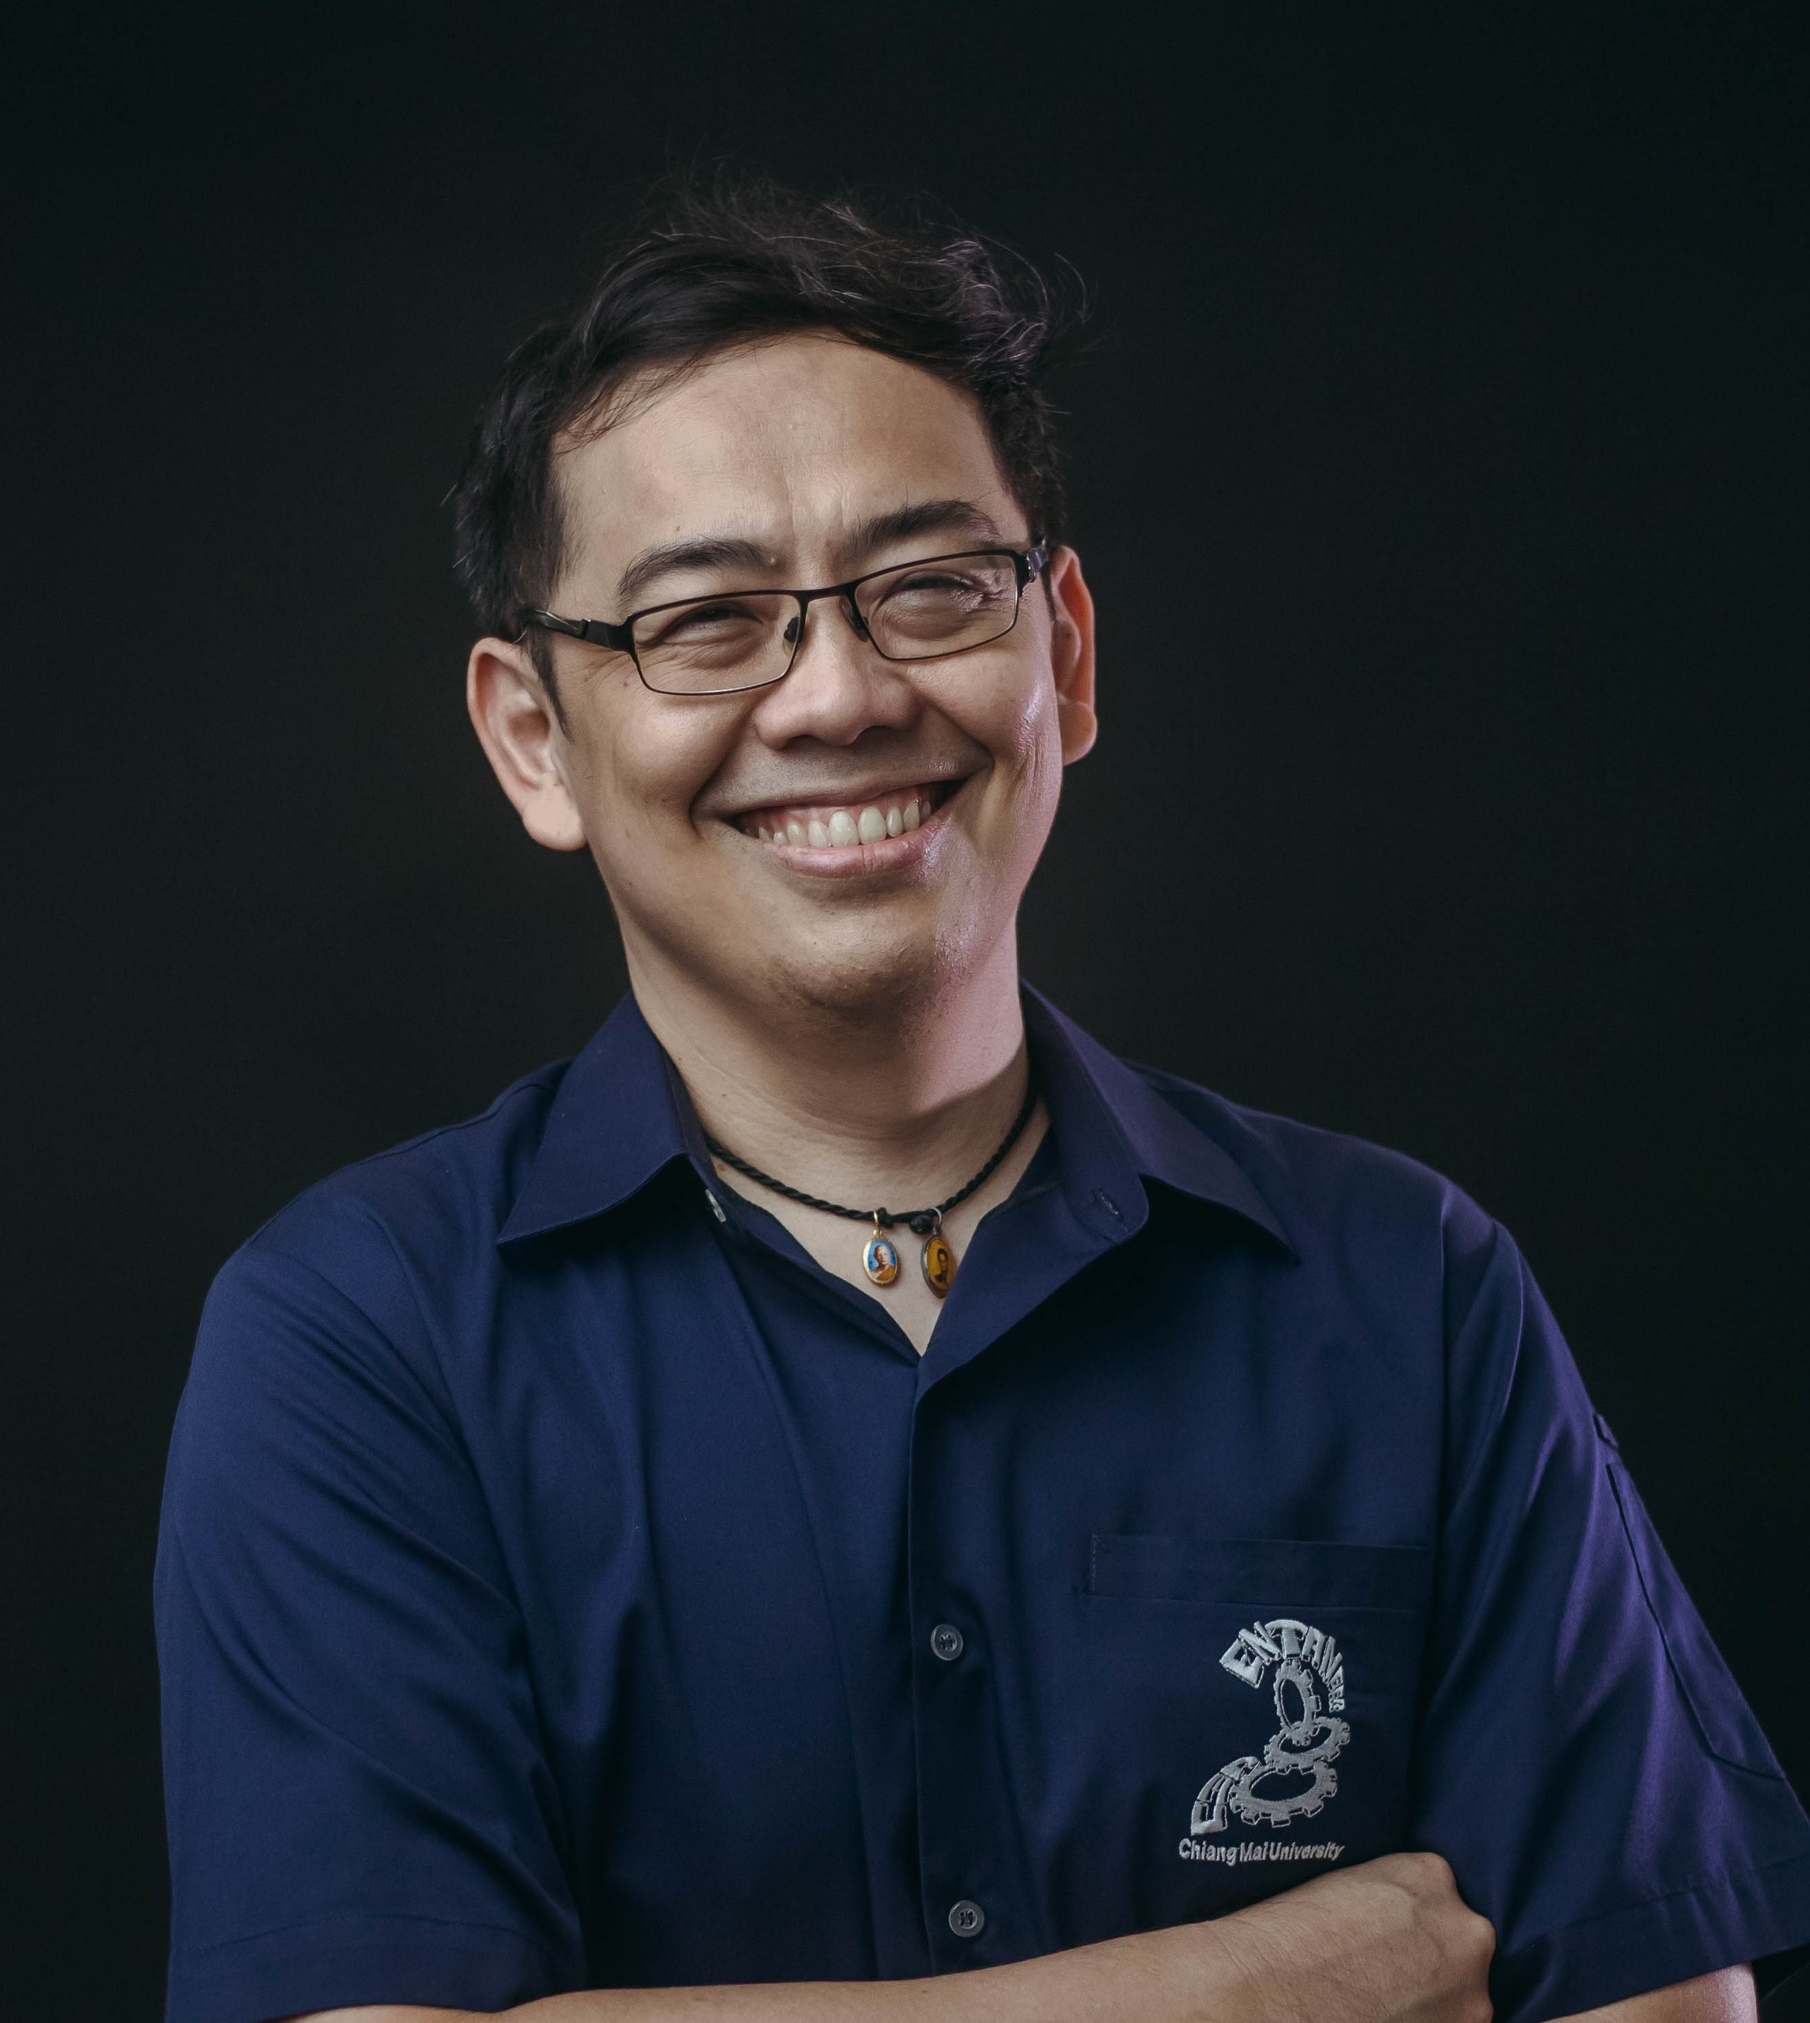
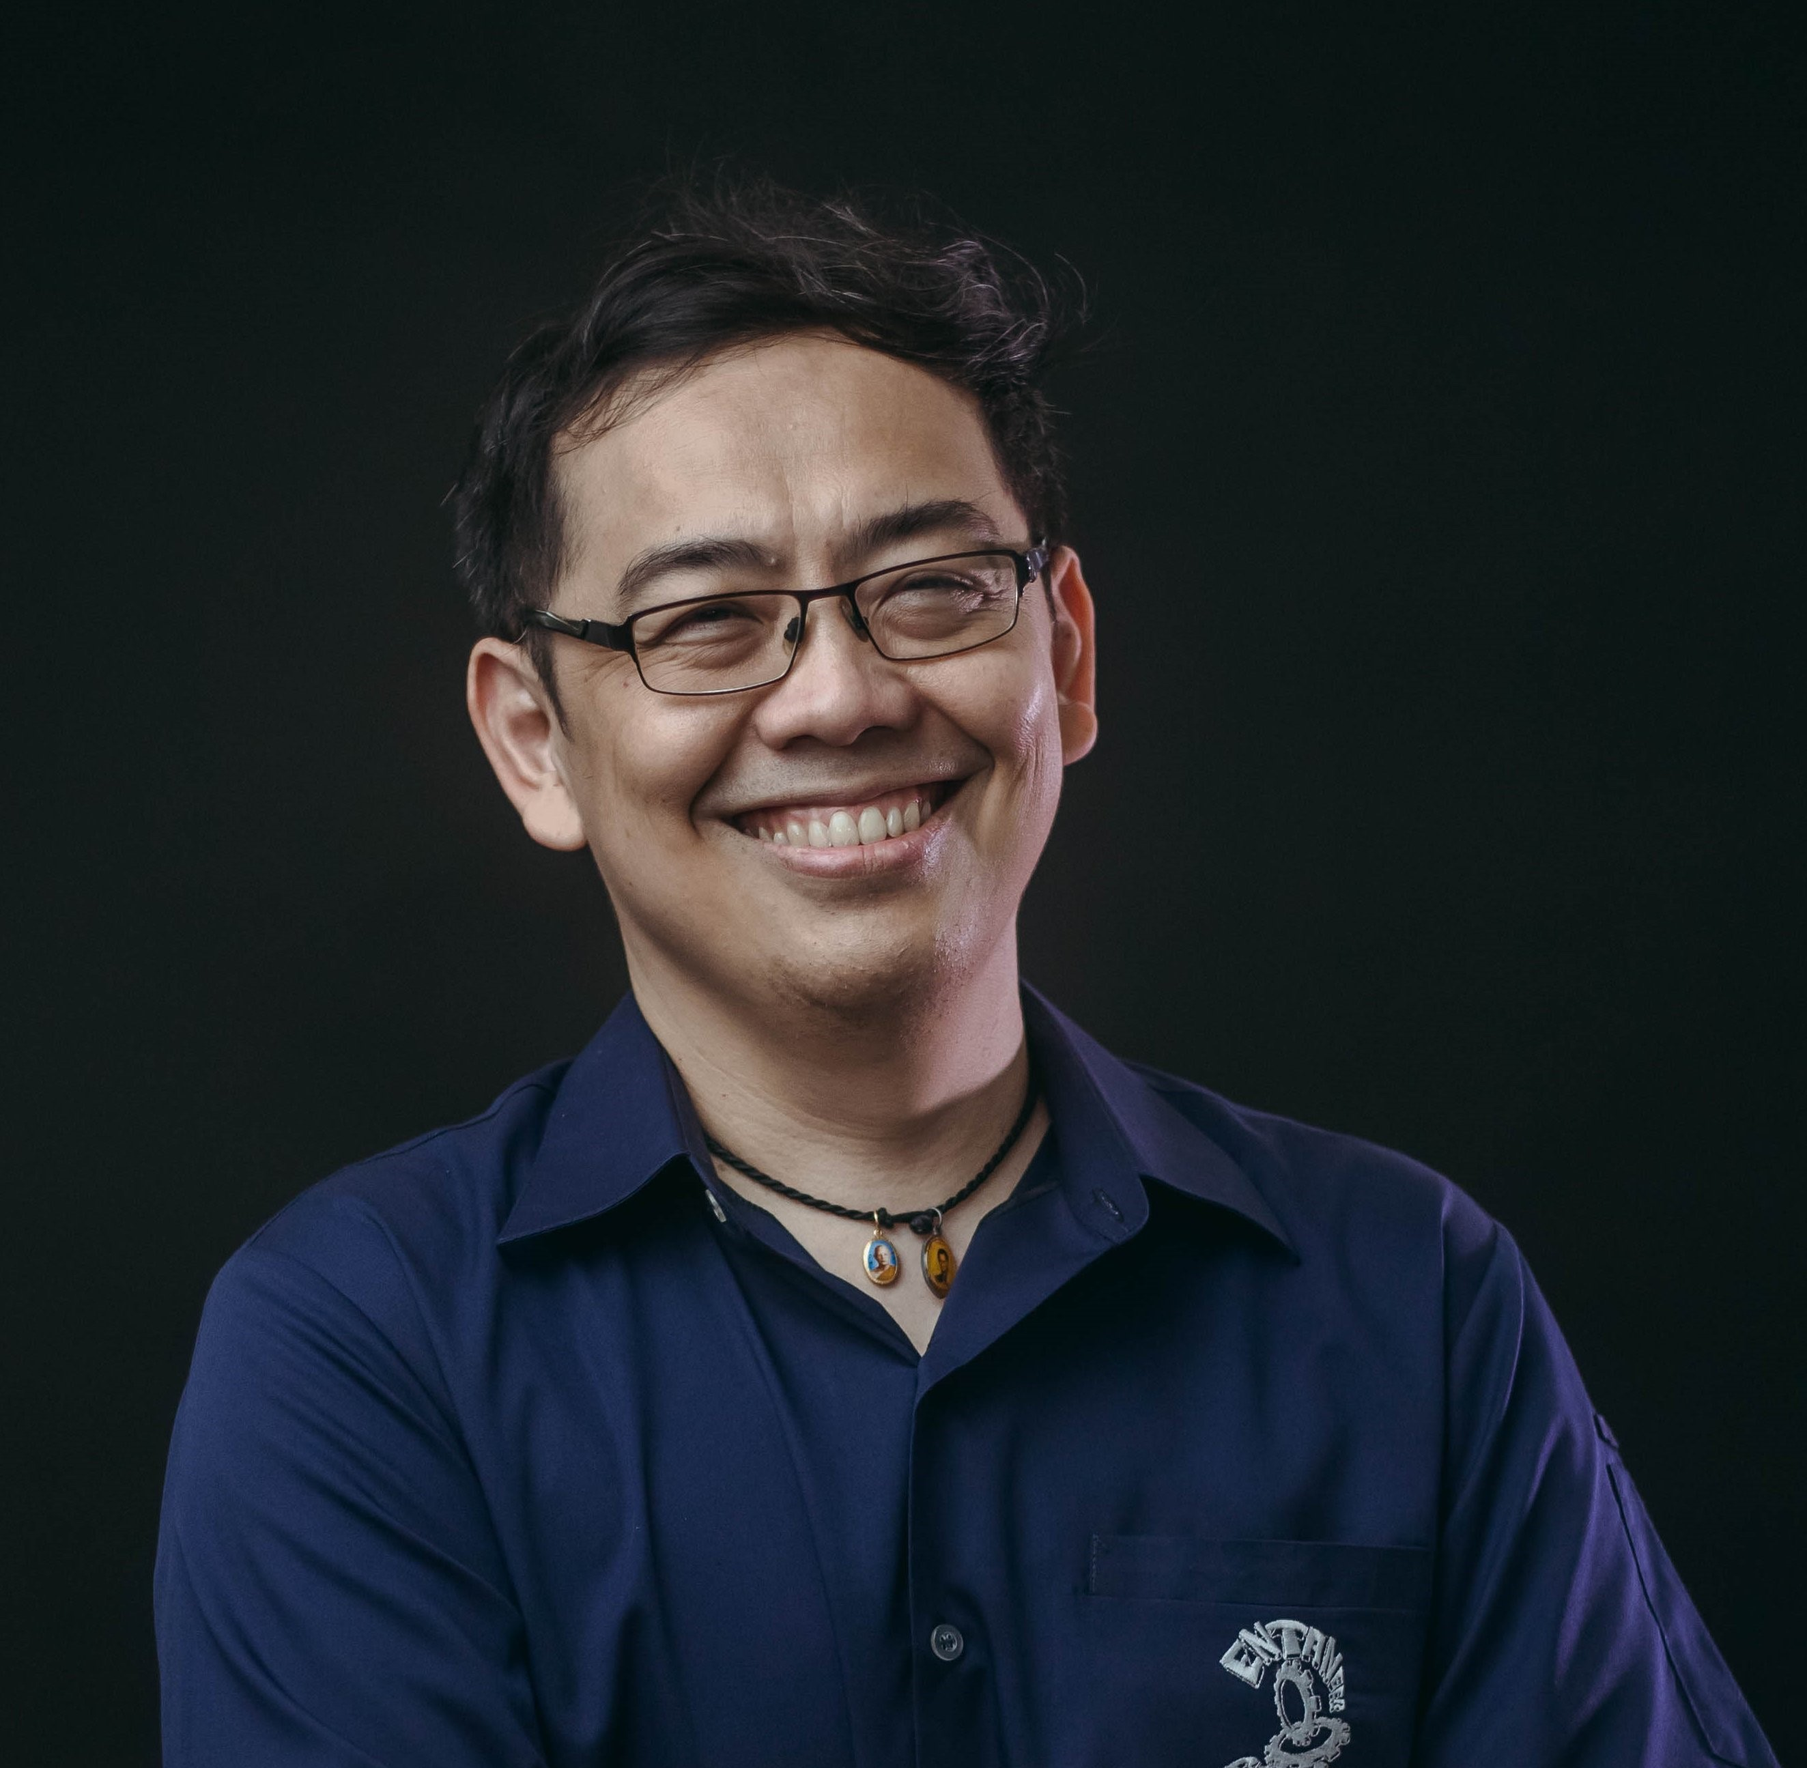
Update photo and Aidan's website

Changed region(s): [[0.062, 0.0927, 1.0, 1.0], [0.062, 0.8649, 0.0929, 0.9884]]

diff --git a/index.html b/index.html
@@ -732,7 +732,7 @@
             <div class="col-sm-4">
                 <div class="speaker"> <img class="thumbnail-circle"
                         src="assets/images/speakers/DLAI4/aidan_gomez.jpg" alt="Aidan Gomez">
-                    <a href="http://aidangomez.ca/" target="_blank">
+                    <a href="https://gom.ai/" target="_blank">
                         <h4>Aidan Gomez</h4>
                     </a>
                     Cohere, Canada</div>
